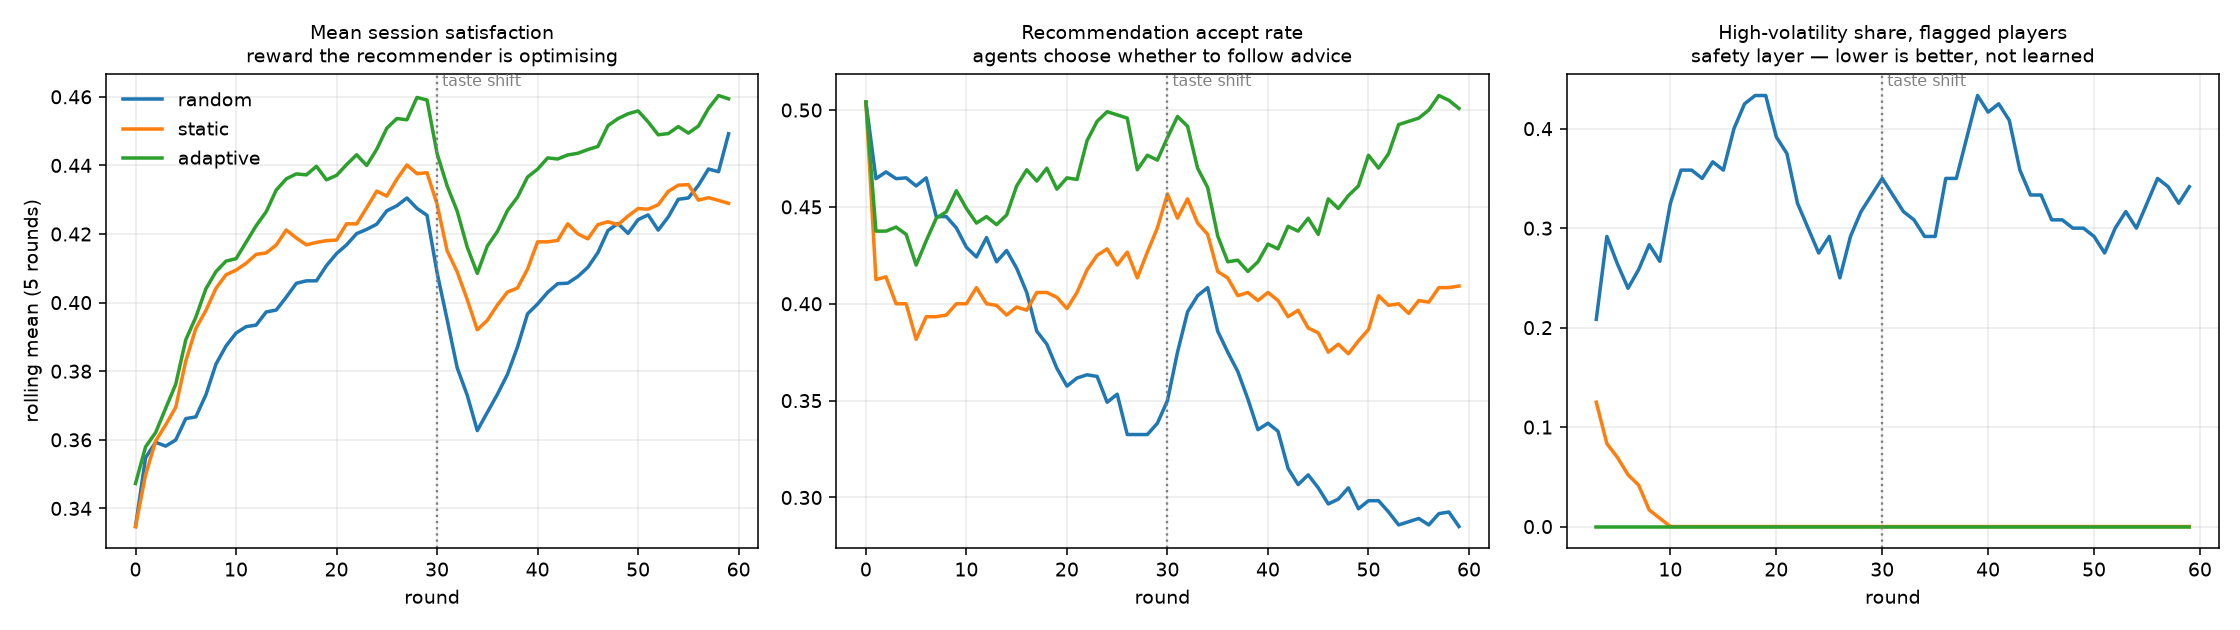
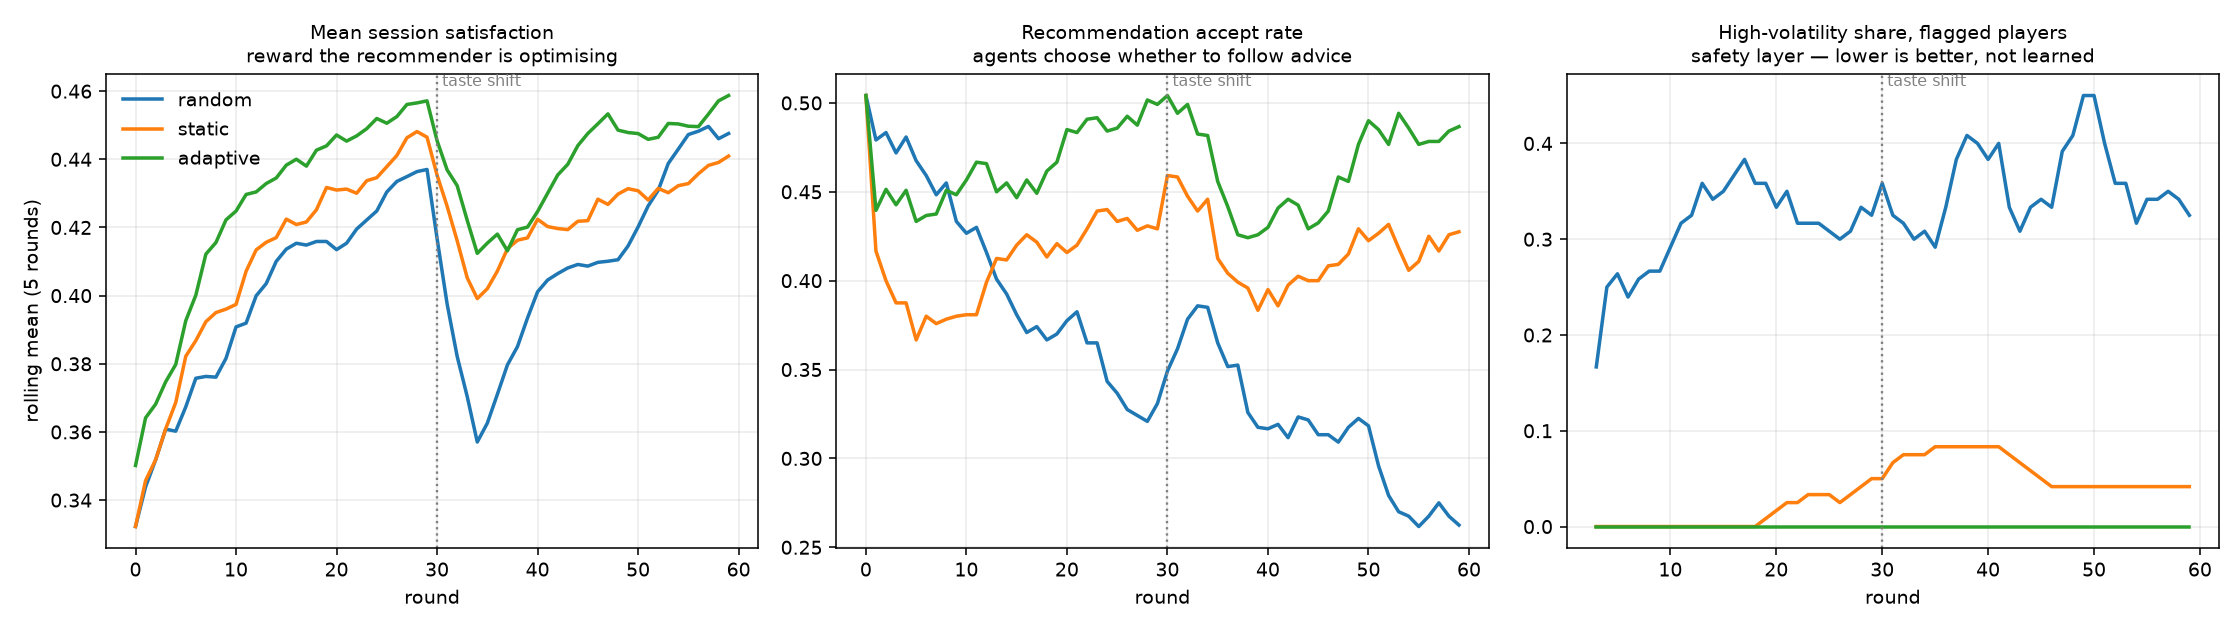
Solve payout_scale exactly instead of estimating it
The Monte Carlo calibration was measurably biased. On the shipped catalogue
it missed each game's target RTP by a mean of 1.68pp and by up to 5.57pp,
worst on precisely the high-volatility games where the estimator's own
standard error is largest: per-spin payout SD runs 6-9 there, so 40,000
samples gives the calibrator an SE of 0.03-0.045 — larger than the quantity
being calibrated.

An exact solve was available the whole time. Every branch of _spin is a
probability times the mean of a draw, and both means are known:
E[Beta(1,12)] = 1/13, and all three tier shapes (U(0.5,1.5), U(0.2,1.8),
Exp(1)) have mean exactly 1.0 by construction. So

    payout_scale = rtp / [ bonus_freq * max_mult / 13
                         + (1 - bonus_freq) * win_prob ]

Analytic RTP error after the change: 0.0001pp mean.

The old docstring justified Monte Carlo by saying a closed form "goes
negative whenever a game combines a high bonus_frequency with a high
max_multiplier". That was true of the relation it stated — but that relation
used 0.65 * max_multiplier as the bonus term, and the sampler draws
Beta(1,12) with mean 0.077, not 0.65. With the correct constant, that
formulation stays positive on all 15 games; the fallback was working around
a wrong constant. The form used here is unconditionally positive anyway,
because payout_scale multiplies both branches.

_calibrate_payout_scale_monte_carlo is kept, now as a test oracle: an
[…]

diff --git a/src/generate_synthetic_data.py b/src/generate_synthetic_data.py
@@ -63,8 +63,8 @@ _BONUS_BETA_A, _BONUS_BETA_B = 1.0, 12.0
 
 def _raw_shape_draw(volatility: Volatility, rng: np.random.Generator) -> float:
     """Unscaled non-bonus win-multiplier shape, mean == 1.0 by construction.
-    Only the *shape* (variance) differs by tier; _calibrate_payout_scale
-    rescales it per game so the realised mean matches RTP."""
+    Only the *shape* (variance) differs by tier; _payout_scale rescales it
+    per game so the realised mean matches RTP."""
     if volatility is Volatility.LOW:
         return rng.uniform(0.5, 1.5)          # tight — steady small wins
     if volatility is Volatility.MEDIUM:
@@ -72,7 +72,56 @@ def _raw_shape_draw(volatility: Volatility, rng: np.random.Generator) -> float:
     return rng.exponential(scale=1.0)          # heavy right tail
 
 
-def _calibrate_payout_scale(
+def _expected_raw_return(win_prob: float, bonus_freq: float, max_mult: float) -> float:
+    """E[payout / bet] for one spin at unit payout_scale. Exact, not estimated.
+
+    Every branch of _spin is a probability times the mean of a draw:
+
+        E[raw] = bonus_freq * E[Beta(a,b)] * max_mult
+               + (1 - bonus_freq) * win_prob * E[shape]
+
+    and both means are known in closed form. E[Beta(1,12)] = 1/13, and every
+    tier's shape draw has mean exactly 1.0 by construction — U(0.5,1.5),
+    U(0.2,1.8) and Exp(1) all do, which is the whole point of
+    _raw_shape_draw only varying the *variance* between tiers. So volatility
+    does not appear here at all.
+    """
+    beta_mean = _BONUS_BETA_A / (_BONUS_BETA_A + _BONUS_BETA_B)
+    return bonus_freq * beta_mean * max_mult + (1.0 - bonus_freq) * win_prob
+
+
+def _payout_scale(win_prob: float, bonus_freq: float, max_mult: float,
+                  target_rtp: float) -> float:
+    """Solve exactly for the factor that brings E[payout/bet] to target_rtp.
+
+    This replaces a 40,000-sample Monte Carlo calibration that was measurably
+    biased: on the shipped catalogue it missed the target RTP by a mean of
+    1.68pp and by up to 5.57pp, worst on exactly the high-volatility games
+    where the estimator's own standard error is largest (per-spin payout SD
+    runs 6-9 there, so 40k samples gives the calibrator an SE of ~0.03-0.045 —
+    bigger than the whole effect being calibrated).
+
+    The old docstring justified Monte Carlo on the grounds that a closed form
+    "goes negative whenever a game combines a high bonus_frequency with a high
+    max_multiplier". That was true of the relation it stated, which used
+    0.65 * max_multiplier as the bonus term — but the sampler draws
+    Beta(1,12), whose mean is 1/13 = 0.077, not 0.65. With the correct
+    constant that formulation stays positive on all 15 games. And this one is
+    unconditionally positive regardless, because payout_scale multiplies
+    *both* branches, so the solve is target_rtp / E[raw] with E[raw] > 0
+    whenever the game can pay out at all.
+
+    _calibrate_payout_scale_monte_carlo is kept as the test oracle: an
+    independent estimate that must agree with this to within its own
+    sampling error.
+    """
+    raw = _expected_raw_return(win_prob, bonus_freq, max_mult)
+    if raw <= 1e-9:
+        return 1.0
+    return target_rtp / raw
+
+
+def _calibrate_payout_scale_monte_carlo(
     volatility: Volatility,
     win_prob: float,
     bonus_freq: float,
@@ -81,15 +130,13 @@ def _calibrate_payout_scale(
     rng: np.random.Generator,
     n_samples: int = 40000,
 ) -> float:
-    """Monte Carlo self-calibration: simulate n_samples spins at unit scale,
-    measure the realised (unscaled) return per bet, then solve for the
-    single multiplicative factor that brings it to target_rtp.
+    """Simulate n_samples spins at unit scale, measure the realised return per
+    bet, then solve for the factor that brings it to target_rtp.
 
-    This is deliberately empirical rather than solved in closed form —
-    closed-form solutions here go negative whenever a randomly-sampled game
-    happens to combine a high bonus_frequency with a high max_multiplier
-    (the bonus term alone can exceed the RTP target). Monte Carlo
-    calibration is robust to any parameter combination by construction.
+    No longer used to build the catalogue — see _payout_scale for why. Kept
+    because an independent empirical estimate is exactly what you want to
+    check an analytic derivation against, and tests/test_payout_calibration.py
+    does that.
     """
     total = 0.0
     for _ in range(n_samples):
@@ -106,15 +153,19 @@ def _calibrate_payout_scale(
 def generate_games(n: int, rng: np.random.Generator) -> list[SlotGame]:
     """Build the game catalogue with payout math actually tied to RTP.
 
-    Each game's RTP is the target long-run return per dollar bet. We solve
-    for the non-bonus win multiplier's mean so that:
+    Each game's RTP is the target long-run return per dollar bet, and
+    payout_scale is solved exactly so that:
 
-        rtp ≈ bonus_freq * (0.65 * max_multiplier)      [bonus contribution]
-            + win_prob   * mean_multiplier_on_win        [base-game contribution]
+        rtp = payout_scale * [ bonus_freq * (max_multiplier / 13)
+                             + (1 - bonus_freq) * win_prob ]
+
+    (1/13 is E[Beta(1,12)], the bonus multiplier's mean as a fraction of
+    max_multiplier; the non-bonus shape draws all have mean 1.0.)
 
     This makes RTP a real driver of the simulation rather than a decorative
     field, and it's what keeps high-volatility games "mostly losing, with a
-    few outsized wins" rather than just randomly generous.
+    few outsized wins" rather than just randomly generous — the *shape* still
+    differs per tier even though the long-run mean is pinned.
     """
     games = []
     tiers = [Volatility.LOW, Volatility.MEDIUM, Volatility.HIGH]
@@ -136,9 +187,7 @@ def generate_games(n: int, rng: np.random.Generator) -> list[SlotGame]:
         bonus_freq = round(bonus_freq, 4)
         max_mult = round(max_mult, 1)
 
-        payout_scale = _calibrate_payout_scale(
-            volatility, win_prob, bonus_freq, max_mult, rtp, rng
-        )
+        payout_scale = _payout_scale(win_prob, bonus_freq, max_mult, rtp)
 
         games.append(SlotGame(
             game_id=f"game_{i:02d}",

diff --git a/README.md b/README.md
@@ -59,9 +59,9 @@ the difference between rows is caused by the policy. Pooled over 6 seeds,
 
 | policy | satisfaction | accept rate | high-volatility recs to flagged players |
 |---|---|---|---|
-| random | 0.406 | 0.36 | 0.33 |
-| static cosine | 0.416 | 0.41 | 0.004 |
-| adaptive (LinUCB) | **0.435** | **0.46** | **0.00** |
+| random | 0.408 | 0.35 | 0.34 |
+| static cosine | 0.420 | 0.41 | 0.04 |
+| adaptive (LinUCB) | **0.435** | **0.47** | **0.00** |
 
 ![Learning curves: satisfaction, accept rate and safety-layer exposure over 60 rounds](docs/img/learning_curves.png)
 
@@ -70,8 +70,8 @@ the mid-run taste shift at round 30. Middle: agents increasingly follow its
 advice while abandoning random. Right: the safety layer holds high-volatility
 recommendations to risk-flagged players at zero.
 
-Adaptive beats static by +0.019 satisfaction/session, ahead on 6/6 seeds. Two
-honest caveats: the gap is small next to the 0.22 of headroom that a perfect
+Adaptive beats static by +0.016 satisfaction/session (paired by seed, sd
+0.010), ahead on 6/6 seeds. Two honest caveats: the gap is small next to the 0.22 of headroom that a perfect
 recommender would capture, and most of the *round-over-round* improvement is
 the agents learning their own tastes — it happens under random recommendations
 too, which is exactly why the baselines are there.
